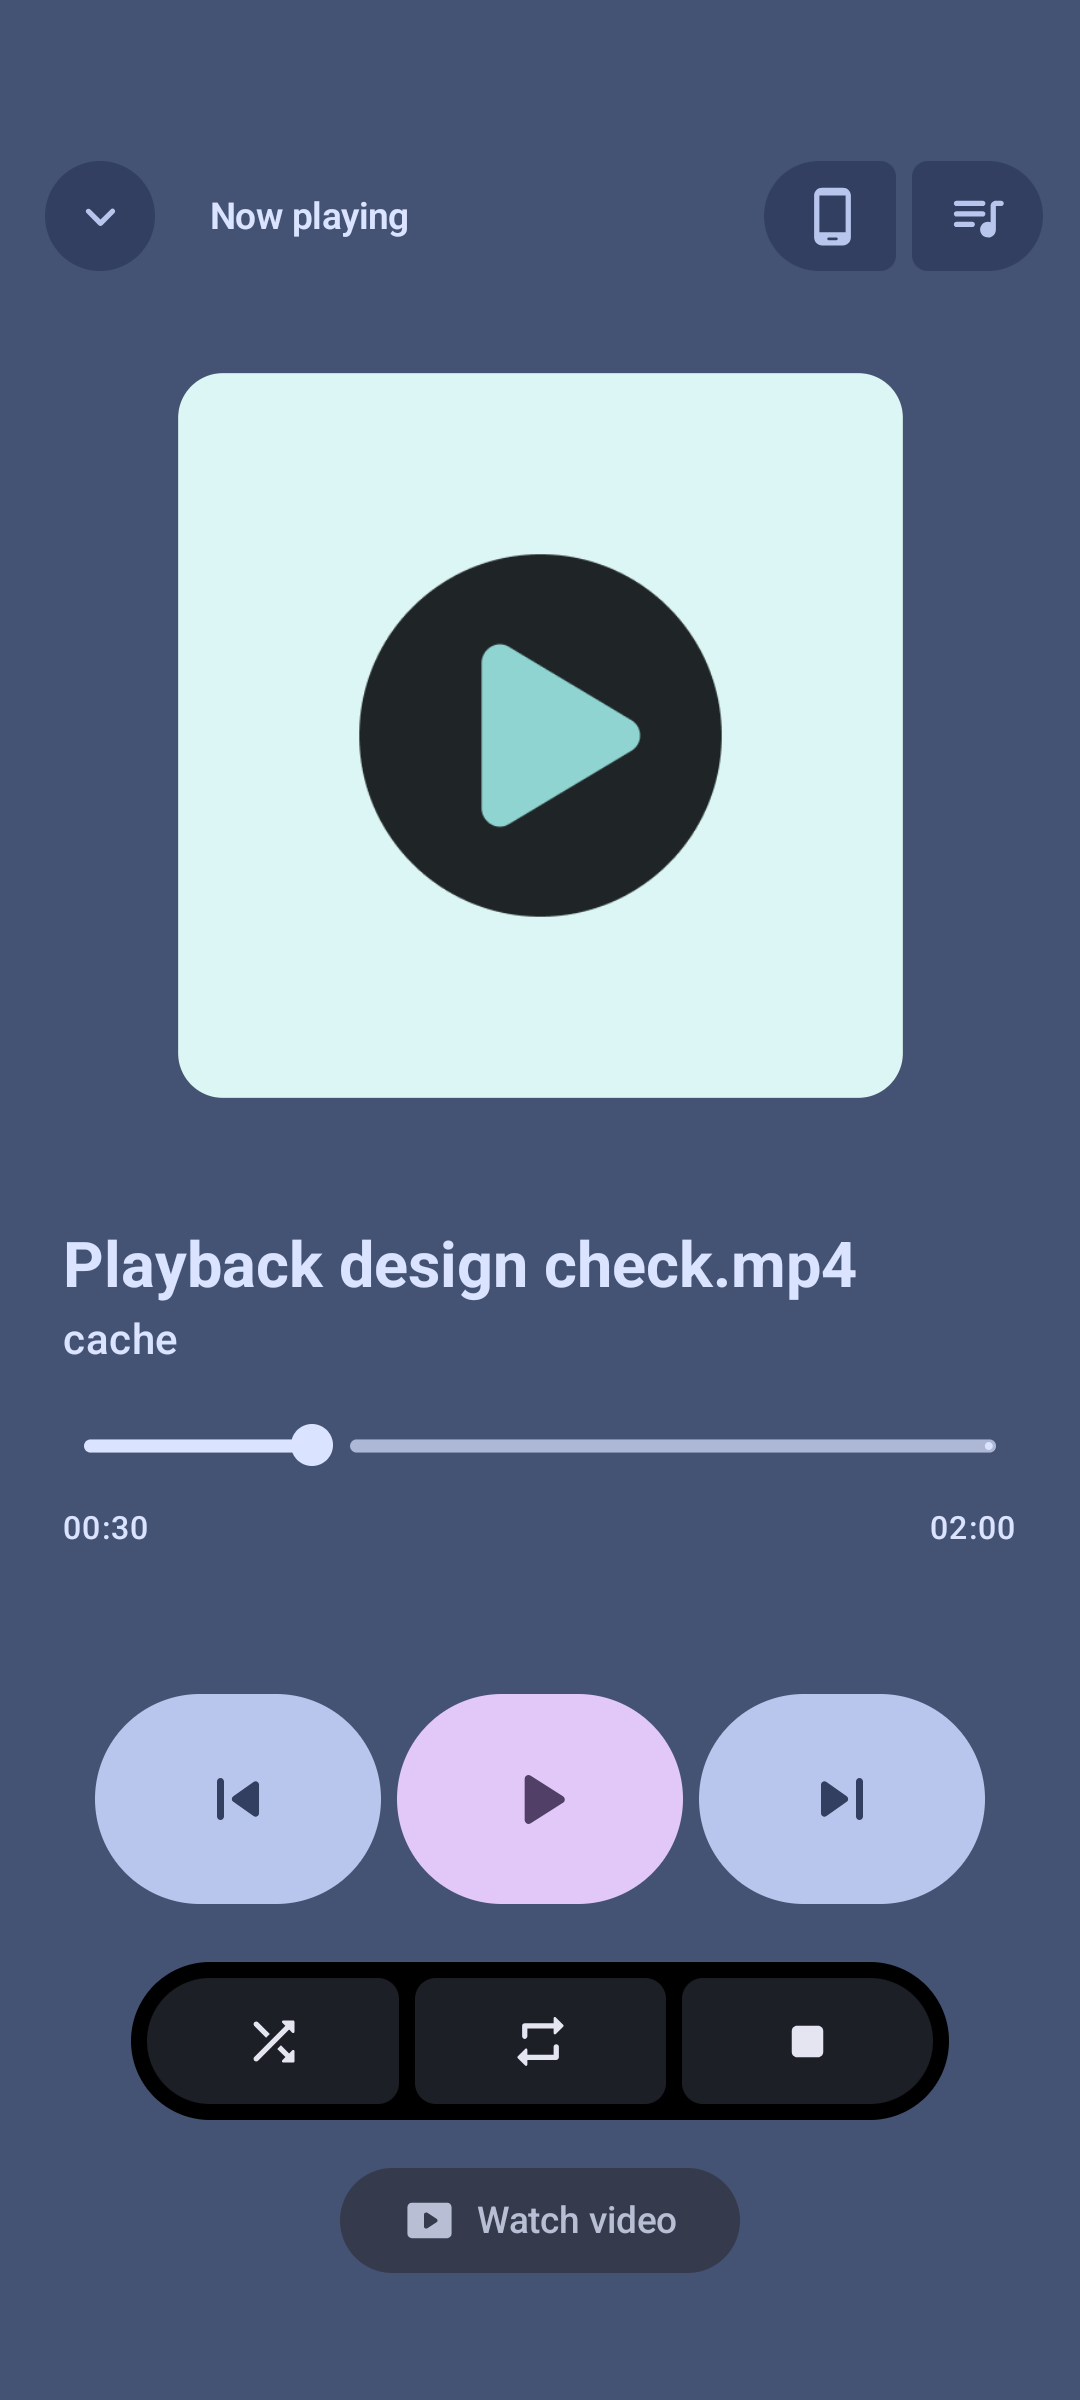
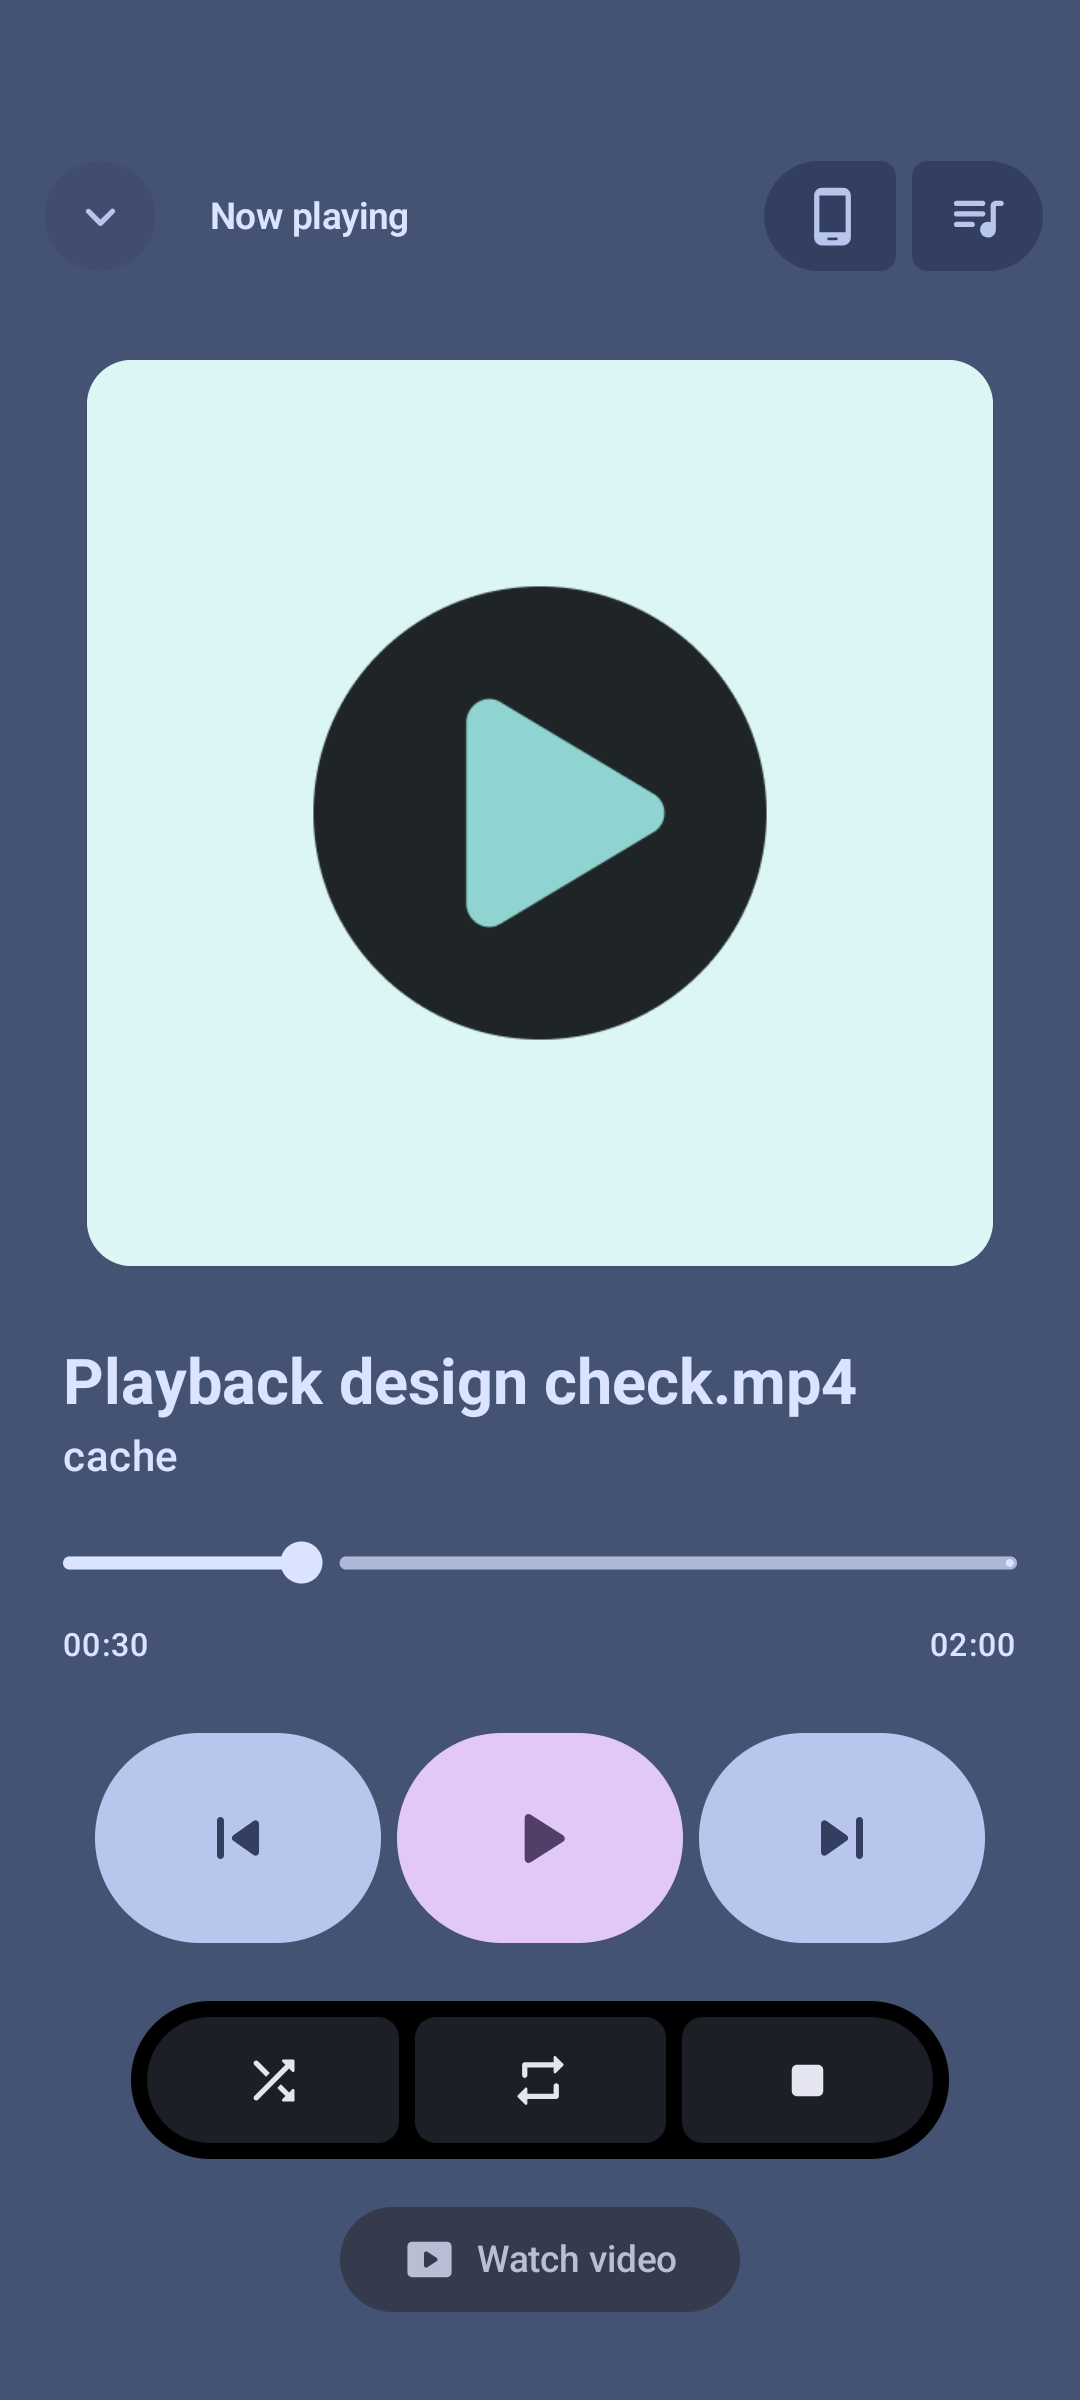
Refresh playback parity evidence after Opus review

Changed region(s): [[0.0611, 0.125, 0.9472, 0.6875], [0.0917, 0.6875, 0.9167, 0.9688]]

diff --git a/docs/design/global-playback-controls/parity-review.md b/docs/design/global-playback-controls/parity-review.md
@@ -42,6 +42,20 @@ The artwork pause-scale settles over 260 ms. Native Material expressive controls
 
 Screenshots contain only generated test media. Adjacent JSON files record component bounds in image coordinates for review. No private media, URI grants or capability URLs are included.
 
-## Independent review
+## Independent review and fixes
 
-Claude Opus 5.5 review is requested after the implementation and acceptance evidence are ready. Findings and their resolution will be recorded here.
+The first Claude Opus 5.5 review ran on `5a6bcb8c` and inspected all 12 original parity images plus the pinned reference source. It found no correctness defects, but identified two P2 and three P3 visual mismatches. All five are addressed:
+
+| Finding | Correction | Regression/evidence |
+| --- | --- | --- |
+| P2: the track widened while the thumb narrowed, and was inset from the labels. | Full-width decorative wave/thumb layer independent of native Slider measurement; fixed native input geometry. The thumb is clamped at both ends in physical RTL/LTR coordinates. | Stable track bounds before/during/after scrubbing; label alignment; narrow/zero-width and RTL clamp tests; endpoint captures. |
+| P2: 80% portrait artwork did not match the default no-peek presentation. | Full content-width square with the reference's artwork padding and paused scale. | The playing portrait artwork and metadata are both 954 px / 363.4 dp wide on Pixel_6a; large-text/RTL actions remain reachable in Compose tests. |
+| P3: landscape collapse straddled the artwork edge. | Collapse lives in the same centered, unscaled square host, inset 8 dp. | Frame/inset bounds regression and refreshed landscape images. |
+| P3: Now playing was crowded by a named receiver chip. | Hide that title while retaining weighted space during Connecting/Cast. Animate chip width/corners; clamp spring overshoot to valid corner sizes. | Local→named receiver→local transition, title exclusion, bounded chip width and queue visibility tests. |
+| P3: long landscape filenames were permanently ellipsized. | Native marquee only during acknowledged playback when system motion permits; paused, Connecting/Lost and reduced-motion states retain bounded text. Observe motion-setting changes live with API24-compatible reads. | API24/36 setting regression; bounded/unbounded UI layout tests; actual Pixel_6a title pixels change over 2.4 seconds and return to native ellipsis after Pause. |
+
+The second capture set contains 17 images: the original 12 light/dark portrait/landscape states, two held seek endpoints and three title-motion/paused frames. Track X bounds are identical in paused, playing and scrubbing states: **63–1017 px portrait** and **1278–2337 px landscape**, with the left edge equal to the time-label edge.
+
+Additional evidence: [seek start](parity/dark-landscape-seek-start.png), [seek end](parity/dark-landscape-seek-end.png), [title before scrolling](parity/landscape-title-scroll-start.png), [title after scrolling](parity/landscape-title-scroll-end.png), [paused title](parity/landscape-title-paused.png).
+
+A fresh Claude Opus 5.5 recheck is requested against the corrected source and captures. The reference-runtime comparison limitation above remains unchanged.

diff --git a/docs/design/global-playback-controls/verification.md b/docs/design/global-playback-controls/verification.md
@@ -11,7 +11,7 @@ Run with JDK 17 launcher, the repository's JVM 21 daemon criteria, and `ANDROID_
   '-Dorg.gradle.jvmargs=-Xmx4096m -Dfile.encoding=UTF-8'
 ```
 
-Final XML totals after visual refinement: **847 tests in 151 suites, zero failures, errors or skips**. This includes 826 Android local tests and 21 JVM model/ktlint-rule tests. XML is inspected because local tests use `ignoreFailures=true`.
+Final XML totals after visual refinement: **865 tests in 155 suites, zero failures, errors or skips**. This includes 844 Android local tests and 21 JVM model/ktlint-rule tests. XML is inspected because local tests use `ignoreFailures=true`.
 
 Meaningful regressions cover:
 
@@ -29,8 +29,8 @@ Final applicable instrumentation runs:
 
 | Distribution | Tests | Result |
 | --- | ---: | --- |
-| Play | 28 | Zero failures/errors/skips |
-| Standard | 11 | Zero failures/errors/skips |
+| Play | 29 | Zero failures/errors/skips |
+| Standard | 12 | Zero failures/errors/skips |
 
 Play covers `MiniPlayerIntegrationTest`, `PlayerApiRequestRegressionTest`, `PlayerApiLaunchOptionsTest`, `BackgroundPlaybackCompletionTest` and `PlaylistCompletionTest`. Standard covers `MiniPlayerIntegrationTest` plus the external handoff/Undo/grants regression. These are focused acceptance runs, not the entire instrumentation suite.
 
@@ -59,7 +59,7 @@ Manual flows checked paused/playing controls, an artwork-origin downward drag th
 
 ## Second parity round
 
-See [the parity comparison](parity-review.md) for the landscape/header/seek/contrast corrections, current screenshots and review evidence. The latest instrumentation adds rotation across light/dark and playing/paused states, plus touch scrubbing without collapsing the overlay. It asserts all expanded actions are visible in landscape without scrolling.
+See [the parity comparison](parity-review.md) for the landscape/header/seek/contrast corrections, current screenshots and review evidence. The latest instrumentation verifies actual title movement/paused ellipsis and held seek endpoints, in addition to rotation across light/dark and playing/paused states, plus touch scrubbing without collapsing the overlay. It asserts all expanded actions are visible in landscape without scrolling.
 
 ## Limits
 
